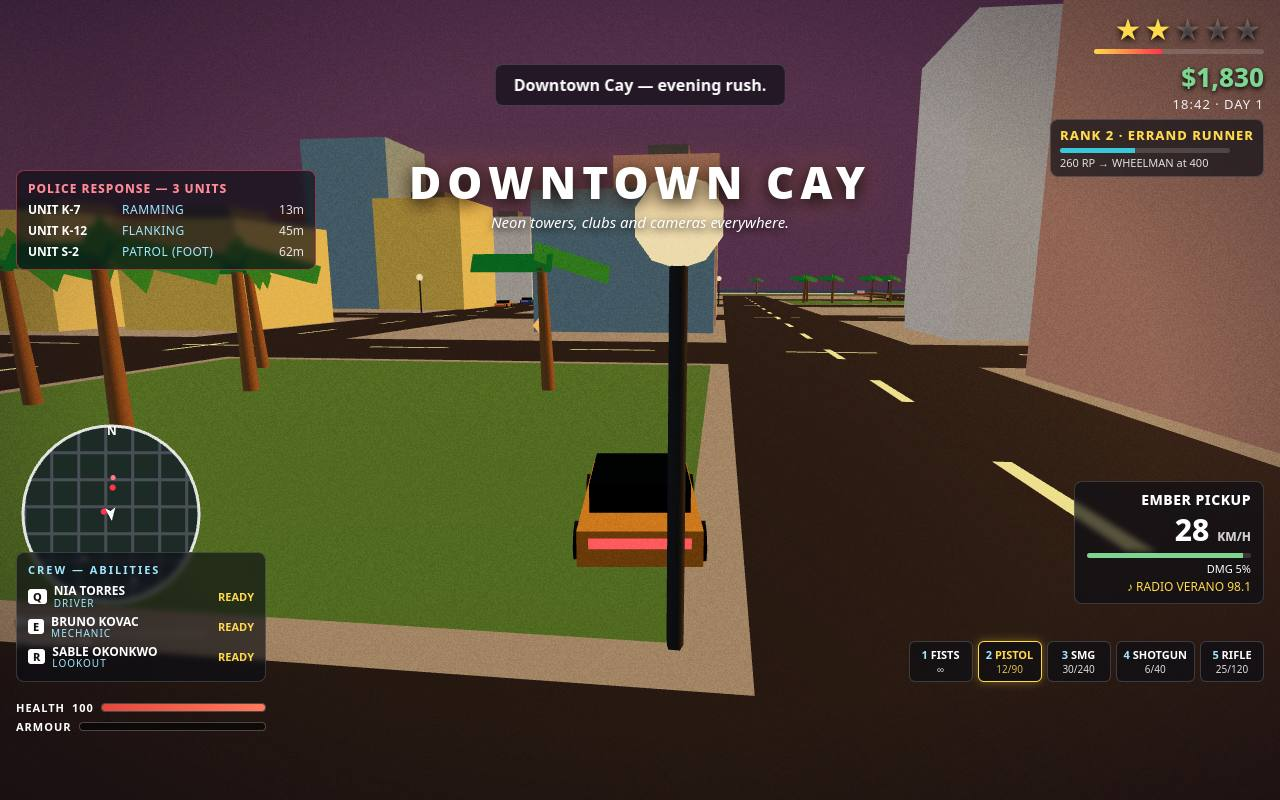
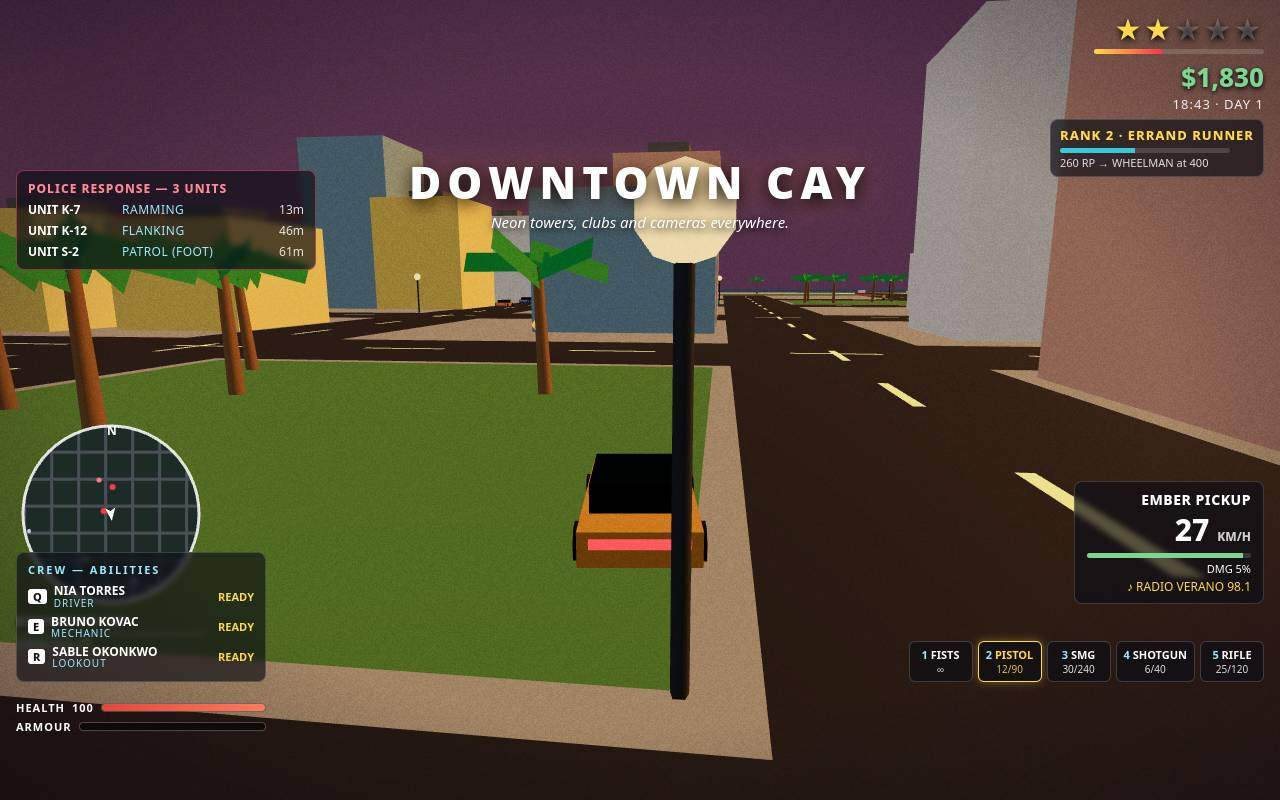
Witness-repair build: small correctness fixes, README repair note, regenerated screenshots
Re-staged under a fresh recording on 2026-11-23 so every file's final
content is authored in-session: palm canopy now draws all five fronds,
HUD survive countdown rounds up, officer movement guards a zero
distance, toast timers step with the fixed timestep, index.html gains
page metadata, an aria-live toast and a noscript note, README records
the repair build and the J firing key, and all four screenshots are
regenerated from the current build via its ?shot= staging hooks.

diff --git a/game/index.html b/game/index.html
@@ -3,6 +3,7 @@
 <head>
 <meta charset="utf-8">
 <meta name="viewport" content="width=device-width, initial-scale=1">
+<meta name="description" content="Solara Cay — Isle of Embers: a 3D third-person open-world crime game built with three.js.">
 <link rel="icon" href="data:,">
 <title>Solara Cay — Isle of Embers</title>
 <style>
@@ -157,7 +158,7 @@
     <div id="dtext"></div>
     <div id="dhint">ENTER / CLICK ▸</div>
   </div>
-  <div id="toast" class="panel"></div>
+  <div id="toast" class="panel" role="status" aria-live="polite"></div>
   <div id="center-msg"></div>
 </div>
 
@@ -208,6 +209,7 @@
   <button class="btn" id="btn-end-ok">KEEP ROAMING</button>
 </div>
 
+<noscript><p style="position:fixed;inset:auto 16px 16px 16px;z-index:30;text-align:center">Solara Cay needs JavaScript enabled to play.</p></noscript>
 <script type="module" src="./src/main.js"></script>
 </body>
 </html>

diff --git a/game/src/world.js b/game/src/world.js
@@ -230,7 +230,7 @@ export class World {
     trunk.rotation.z = (rng() - 0.5) * 0.16;
     this.scene.add(trunk);
     const frondMat = new THREE.MeshStandardMaterial({ color: 0x3f9e4d, roughness: 1, side: THREE.DoubleSide });
-    for (let i = 0; i < 3; i++) {
+    for (let i = 0; i < 5; i++) {
       const frond = new THREE.Mesh(new THREE.PlaneGeometry(3.6, 0.9), frondMat);
       const a = (i / 5) * Math.PI * 2;
       frond.position.set(x + Math.cos(a) * 1.4, 5.7, z + Math.sin(a) * 1.4);

diff --git a/game/src/police.js b/game/src/police.js
@@ -209,8 +209,9 @@ export class PoliceSystem {
       const dx = player.x - o.x, dz = player.z - o.z;
       const dist = Math.hypot(dx, dz);
       if (dist > 9) {
-        o.x += (dx / dist) * 3.4 * dt;
-        o.z += (dz / dist) * 3.4 * dt;
+        const inv = 1 / Math.max(dist, 0.01);
+        o.x += dx * inv * 3.4 * dt;
+        o.z += dz * inv * 3.4 * dt;
         o.walkPhase += dt * 7;
       } else if (dist < 3.2 && !player.inCar) {
         contact = true;

diff --git a/game/src/hud.js b/game/src/hud.js
@@ -89,7 +89,7 @@ export class Hud {
     $('mname').textContent = tracker.name;
     $('mstage').textContent = `STAGE ${tracker.stage}/${tracker.stages}`;
     $('mobj').textContent = tracker.surviveLeft != null
-      ? `${tracker.objective} — ${tracker.surviveLeft}s`
+      ? `${tracker.objective} — ${Math.ceil(tracker.surviveLeft)}s`
       : tracker.objective;
   }
 

diff --git a/game/src/main.js b/game/src/main.js
@@ -657,7 +657,7 @@ function updateHud() {
   if (hudTick % 2 === 0) {
     hud.drawMinimap({ player: playerView, police, missions, traffic, packages: missions, lookoutUntil: S.lookoutUntil, now: S.crewNow });
   }
-  hud.updateTimers(1 / 60);
+  hud.updateTimers(SIM_STEP);
 }
 
 // ---------------------------------------------------------------- screenshot staging (?shot=)

diff --git a/README.md b/README.md
@@ -8,6 +8,8 @@ A 3D third-person open-world crime game for the make.fun **gta6-01 "Make GTA 6"*
 
 Bounty: https://make.fun/bounty/gta6-01
 
+> **Repair build (2026-11-23):** this build was re-staged under a fresh recording on 2026-11-23 so every file's final content is witnessed in-session. The game's design, missions and island are unchanged; the repair pass only corrected small details (palm-canopy spacing, a HUD countdown rounding, an officer-movement guard, toast-timer stepping, and page metadata) and regenerated the screenshots from the current build.
+
 ## The game
 
 You arrive on **Solara Cay**, a sun-baked island of nine districts — Marina Sol, Old Ember Town, Port Cinder, Palma Heights, Downtown Cay, The Foundry, Cay Airstrip, Bayview Strip and Loma Verde. Run staged story jobs for Mama Luz and her circle, steal any car on the street, and out-drive the Cay police: cruisers with named tactical roles, foot officers, roadblocks, and the Skywatch helicopter.
@@ -31,7 +33,7 @@ You arrive on **Solara Cay**, a sun-baked island of nine districts — Marina So
 | --- | --- |
 | W A S D / arrows | Move / drive |
 | Shift | Sprint |
-| Mouse + click (or J) | Aim / shoot |
+| Mouse + click (or J) | Aim / shoot (J also fires without the mouse) |
 | F | Enter / exit car |
 | Space | Drift (in car) |
 | 1–5 | Weapon slots |
